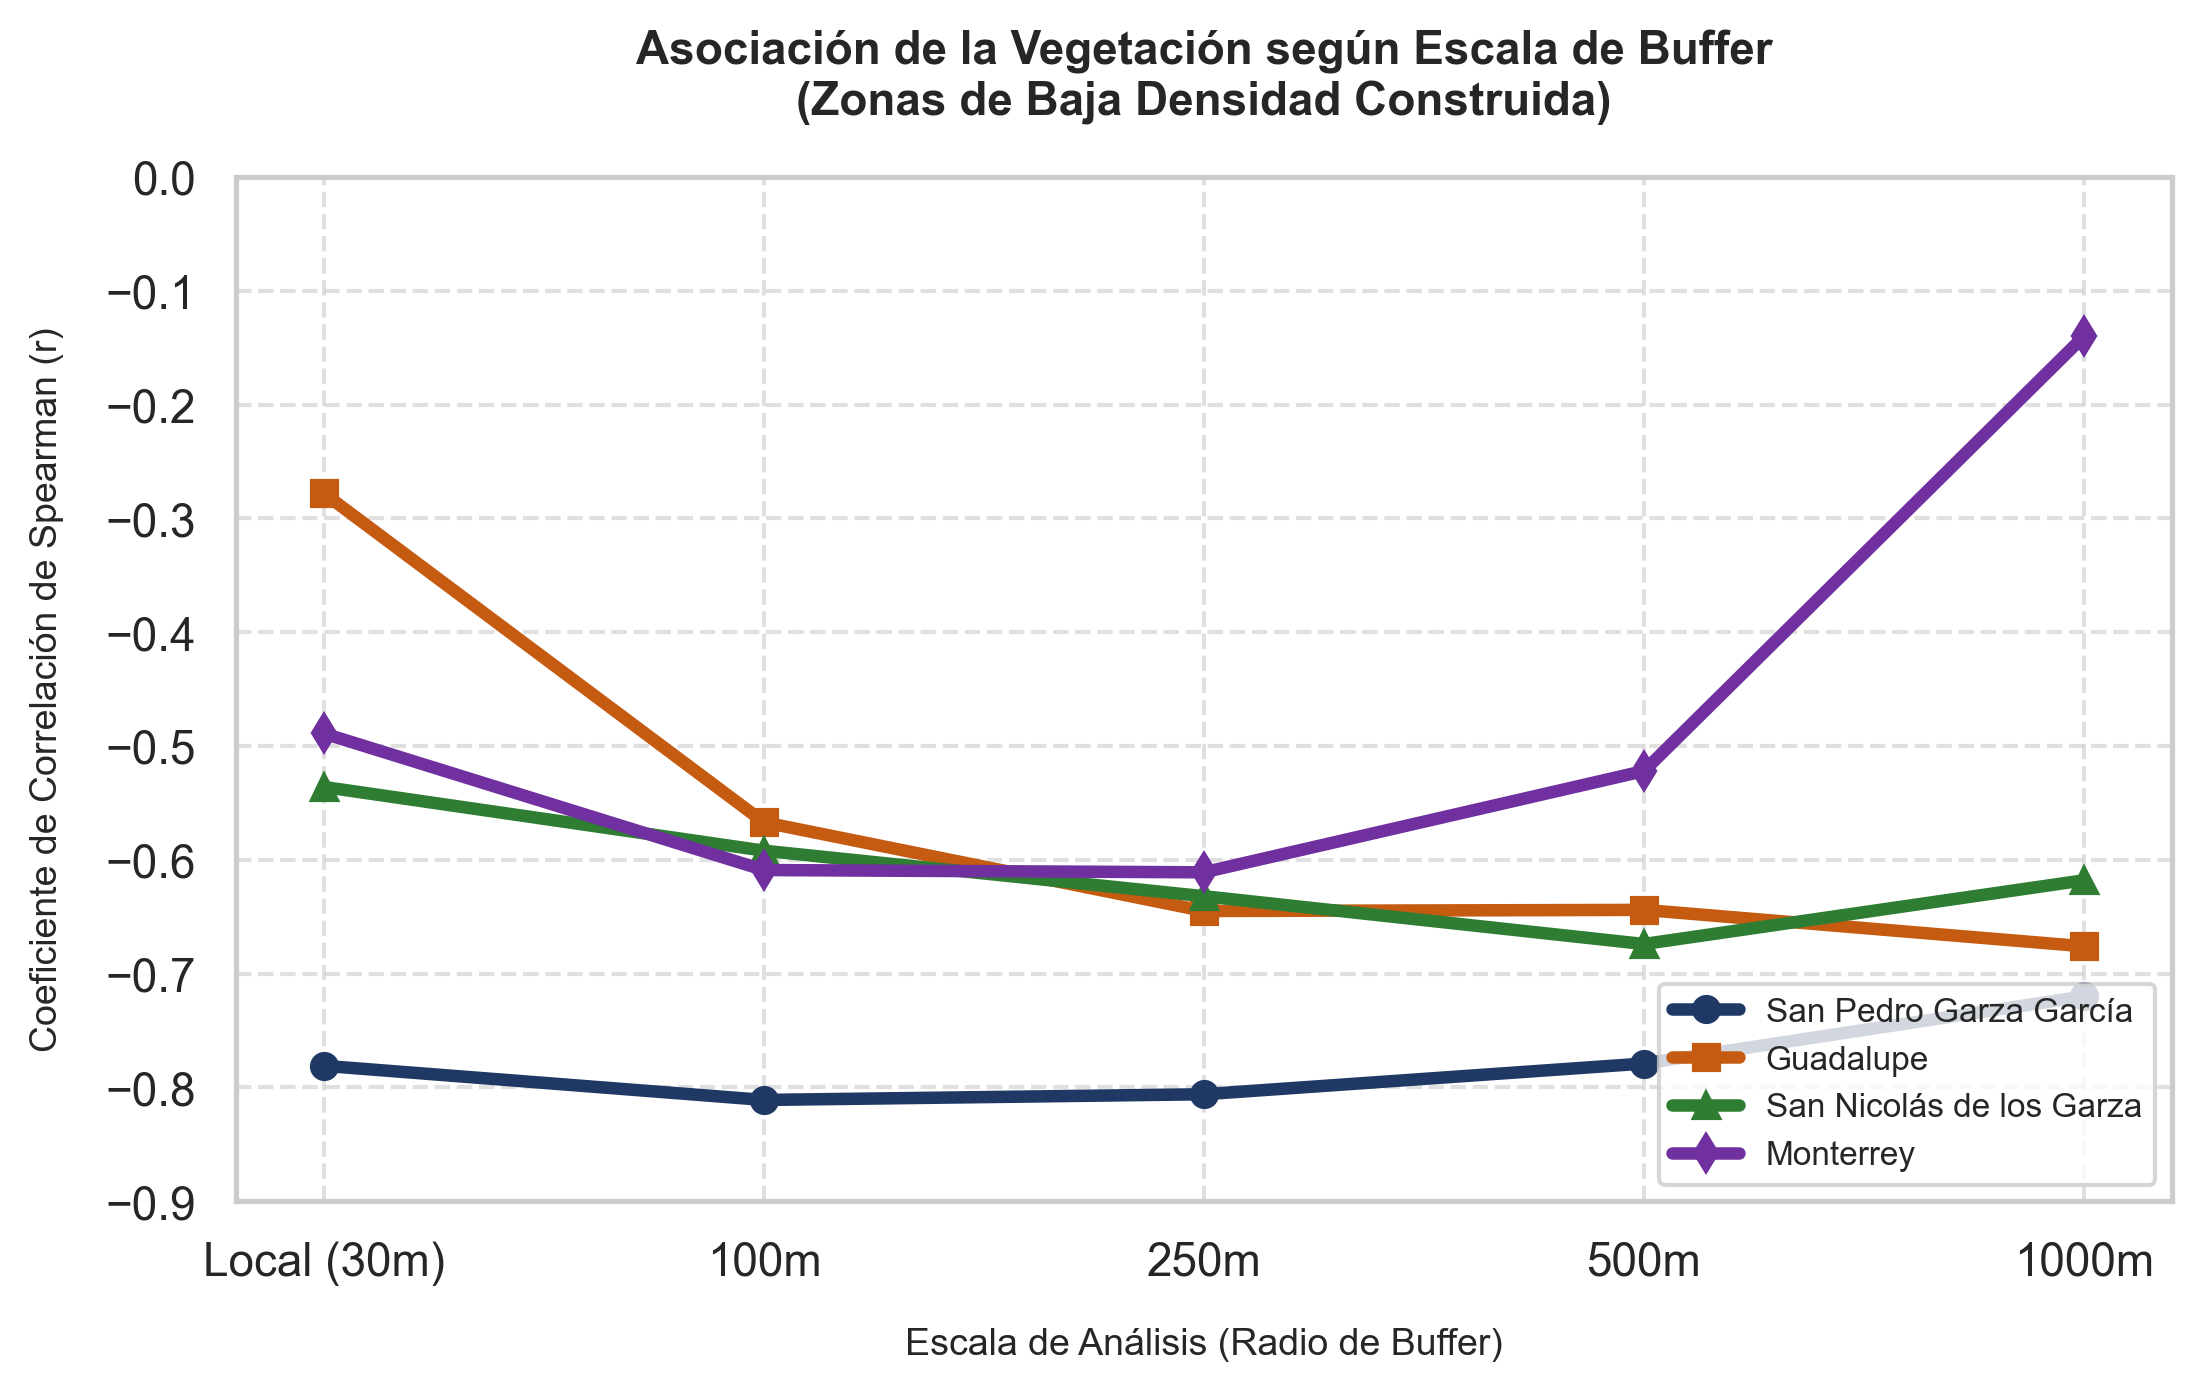
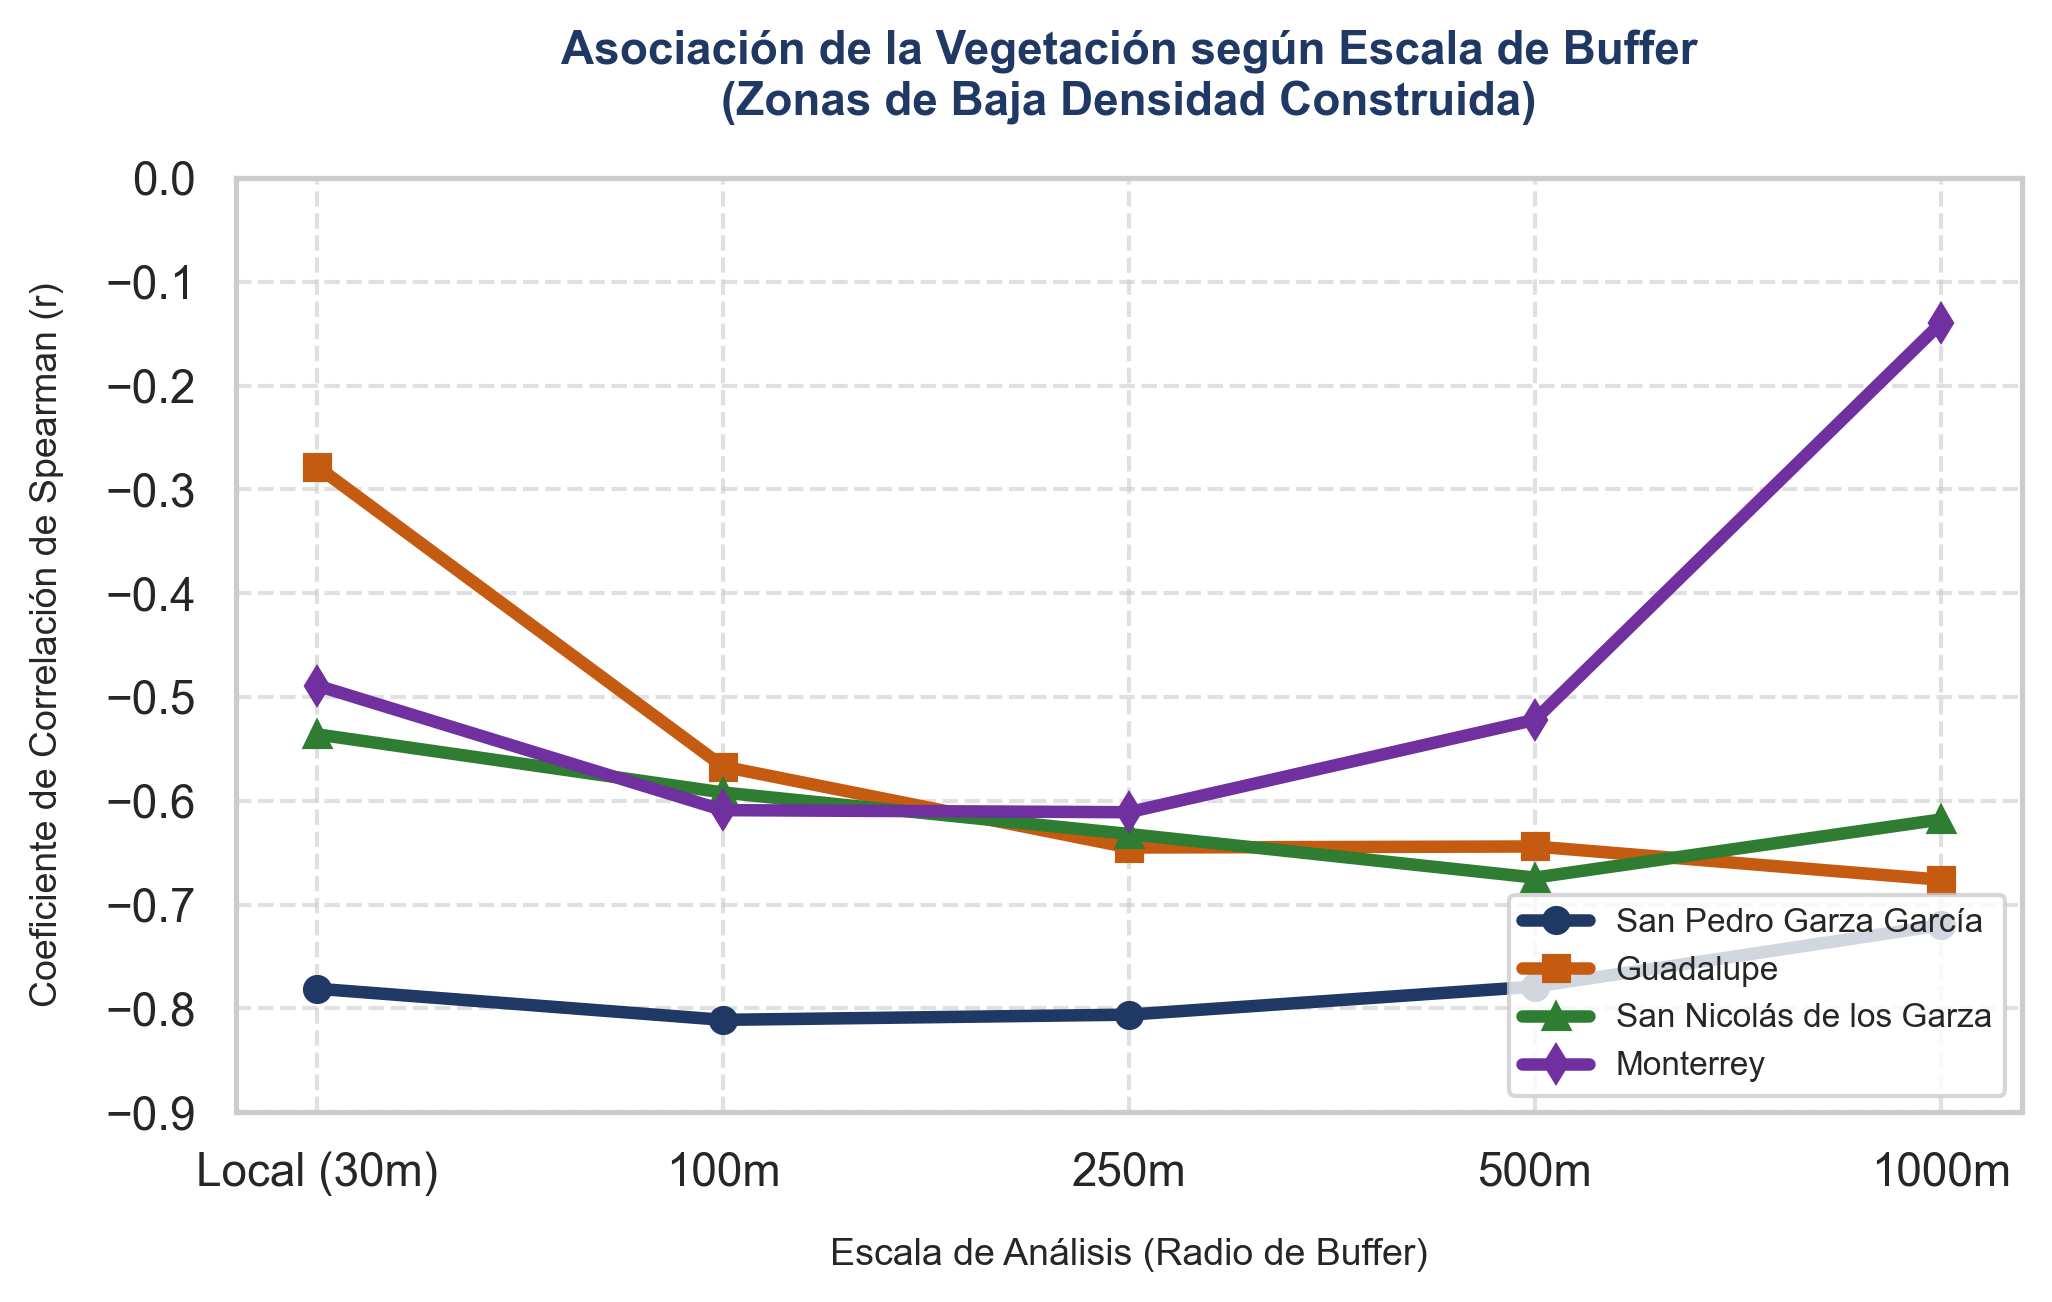
docs: generate visual bottom-up correlation presentation pptx v5 with maps, heatmaps, charts and reusable script

diff --git a/src/visualization/generate_correlation_ppt_figures.py b/src/visualization/generate_correlation_ppt_figures.py
@@ -1,0 +1,195 @@
+import os
+import shutil
+import numpy as np
+import matplotlib.pyplot as plt
+import seaborn as sns
+
+def generate_vegetacion_line_chart(output_path):
+    sns.set_theme(style="whitegrid")
+    scales = ['Local (30m)', '100m', '250m', '500m', '1000m']
+    san_pedro = [-0.781, -0.811, -0.806, -0.779, -0.720]
+    guadalupe = [-0.278, -0.567, -0.645, -0.644, -0.676]
+    san_nicolas = [-0.536, -0.592, -0.632, -0.674, -0.618]
+    monterrey = [-0.489, -0.609, -0.611, -0.522, -0.140]
+    
+    fig, ax = plt.subplots(figsize=(7, 4.5), dpi=300)
+    ax.plot(scales, san_pedro, marker='o', linewidth=3, label='San Pedro Garza García', color='#1f3864')
+    ax.plot(scales, guadalupe, marker='s', linewidth=3, label='Guadalupe', color='#c55a11')
+    ax.plot(scales, san_nicolas, marker='^', linewidth=3, label='San Nicolás de los Garza', color='#2e7d32')
+    ax.plot(scales, monterrey, marker='d', linewidth=3, label='Monterrey', color='#7030a0')
+    
+    ax.set_title('Asociación de la Vegetación según Escala de Buffer\n(Zonas de Baja Densidad Construida)', fontsize=11, fontweight='bold', pad=15, color='#1f3864')
+    ax.set_xlabel('Escala de Análisis (Radio de Buffer)', fontsize=9, labelpad=10)
+    ax.set_ylabel('Coeficiente de Correlación de Spearman (r)', fontsize=9, labelpad=10)
+    ax.set_ylim(-0.9, 0.0)
+    ax.grid(True, linestyle='--', alpha=0.6)
+    ax.legend(frameon=True, fontsize=8, loc='lower right')
+    
+    plt.tight_layout()
+    plt.savefig(output_path, dpi=300, bbox_inches='tight')
+    plt.close()
+    print(f"[FIGS] Figure 1 (Vegetacion) generated at: {output_path}")
+
+def generate_industria_line_chart(output_path):
+    sns.set_theme(style="whitegrid")
+    scales = ['Local (30m)', '100m', '250m', '500m', '1000m']
+    san_nicolas_baja = [0.573, 0.595, 0.624, 0.630, 0.643]
+    san_nicolas_alta = [0.411, 0.473, 0.500, 0.505, 0.469]
+    monterrey_baja = [-0.009, 0.104, 0.379, 0.540, 0.596]
+    monterrey_media = [0.253, 0.316, 0.361, 0.374, 0.304]
+    san_pedro_baja = [0.0, 0.0, 0.079, 0.260, 0.579] # N/D treated as 0 or handled gracefully
+    
+    fig, ax = plt.subplots(figsize=(7, 4.5), dpi=300)
+    ax.plot(scales, san_nicolas_baja, marker='o', linewidth=2.5, linestyle='-', label='San Nicolás (Baja)', color='#1f3864')
+    ax.plot(scales, san_nicolas_alta, marker='o', linewidth=2.5, linestyle='--', label='San Nicolás (Alta)', color='#2f5597')
+    ax.plot(scales, monterrey_baja, marker='s', linewidth=2.5, linestyle='-', label='Monterrey (Baja)', color='#c55a11')
+    ax.plot(scales, monterrey_media, marker='s', linewidth=2.5, linestyle='--', label='Monterrey (Media)', color='#f4b183')
+    ax.plot(scales, san_pedro_baja, marker='^', linewidth=2.5, linestyle=':', label='San Pedro (Baja, Spillover)', color='#7030a0')
+    
+    ax.set_title('Asociación de la Industria según Escala de Buffer\n(Casos Seleccionados)', fontsize=11, fontweight='bold', pad=15, color='#1f3864')
+    ax.set_xlabel('Escala de Análisis (Radio de Buffer)', fontsize=9, labelpad=10)
+    ax.set_ylabel('Coeficiente de Correlación de Spearman (r)', fontsize=9, labelpad=10)
+    ax.set_ylim(-0.1, 0.7)
+    ax.grid(True, linestyle='--', alpha=0.6)
+    ax.legend(frameon=True, fontsize=8, loc='upper left')
+    
+    plt.tight_layout()
+    plt.savefig(output_path, dpi=300, bbox_inches='tight')
+    plt.close()
+    print(f"[FIGS] Figure 2 (Industria) generated at: {output_path}")
+
+def generate_density_bar_chart(output_path):
+    sns.set_theme(style="whitegrid")
+    municipios = ['San Pedro', 'Guadalupe', 'San Nicolás', 'Monterrey']
+    baja_densidad = [-0.781, -0.278, -0.536, -0.489]
+    alta_densidad = [-0.116, -0.042, -0.083, -0.026]
+    
+    x = np.arange(len(municipios))
+    width = 0.35
+    
+    fig, ax = plt.subplots(figsize=(7, 4.5), dpi=300)
+    rects1 = ax.bar(x - width/2, baja_densidad, width, label='Baja Densidad (<20%)', color='#70ad47')
+    rects2 = ax.bar(x + width/2, alta_densidad, width, label='Alta Densidad (>=60%)', color='#c00000')
+    
+    ax.set_title('Vegetación Local (30m): Baja vs Alta Densidad Construida', fontsize=11, fontweight='bold', pad=15, color='#1f3864')
+    ax.set_ylabel('Coeficiente de Spearman (r)', fontsize=9, labelpad=10)
+    ax.set_xticks(x)
+    ax.set_xticklabels(municipios, fontsize=9)
+    ax.set_ylim(-0.9, 0.1)
+    ax.grid(True, linestyle='--', alpha=0.6)
+    ax.legend(frameon=True, fontsize=9, loc='lower right')
+    
+    # Add values on top of bars
+    def autolabel(rects):
+        for rect in rects:
+            height = rect.get_height()
+            ax.annotate(f'{height:+.3f}',
+                        xy=(rect.get_x() + rect.get_width() / 2, height),
+                        xytext=(0, 3 if height >= 0 else -12),
+                        textcoords="offset points",
+                        ha='center', va='bottom', fontsize=8, fontweight='bold')
+                        
+    autolabel(rects1)
+    autolabel(rects2)
+    
+    plt.tight_layout()
+    plt.savefig(output_path, dpi=300, bbox_inches='tight')
+    plt.close()
+    print(f"[FIGS] Figure 3 (Bar Chart) generated at: {output_path}")
+
+def generate_heatmap(output_path):
+    sns.set_theme(style="white")
+    municipios = ['San Pedro', 'Guadalupe', 'San Nicolás', 'Monterrey']
+    buffers = ['Local (30m)', '100m', '250m', '500m', '1000m']
+    
+    matrix = np.array([
+        [-0.781, -0.811, -0.806, -0.779, -0.720],
+        [-0.278, -0.567, -0.645, -0.644, -0.676],
+        [-0.536, -0.592, -0.632, -0.674, -0.618],
+        [-0.489, -0.609, -0.611, -0.522, -0.140]
+    ])
+    
+    fig, ax = plt.subplots(figsize=(7.5, 4.5), dpi=300)
+    sns.heatmap(matrix, annot=True, fmt="+.3f", cmap="YlGn_r", xticklabels=buffers, yticklabels=municipios, 
+                cbar_kws={'label': 'Coeficiente de Spearman (r)'}, ax=ax, annot_kws={"size": 10, "weight": "bold"})
+    
+    ax.set_title('Matriz de Asociación de Enfriamiento (Vegetación Baja Densidad)', fontsize=11, fontweight='bold', pad=15, color='#1f3864')
+    plt.xticks(rotation=15)
+    plt.tight_layout()
+    plt.savefig(output_path, dpi=300, bbox_inches='tight')
+    plt.close()
+    print(f"[FIGS] Figure 4 (Heatmap) generated at: {output_path}")
+
+def draw_flowchart(output_path):
+    fig, ax = plt.subplots(figsize=(7, 6.5), dpi=300)
+    
+    steps = [
+        "1. Discretización Territorial\nMalla regular de celdas de 30 metros",
+        "2. Asignación Temática\nMunicipio, AGEB y Densidad por celda (Spatial Join)",
+        "3. Cálculo Multiescala\nCoberturas en celda local y buffers circulares\n(100m, 250m, 500m y 1000m)",
+        "4. Modelo Bivariado\nCoeficientes de correlación de Spearman (r)",
+        "5. Segmentación territorial\nComparación por Municipio y Zona de Densidad",
+        "6. Resultados y Síntesis\nTablas nativas, mapas y recomendaciones"
+    ]
+    
+    box_style = dict(boxstyle="round,pad=0.5", fc="#1f3864", ec="none", alpha=0.9)
+    
+    for i, step in enumerate(steps):
+        y = 5 - i
+        # Draw Box
+        ax.text(0.5, y, step, ha="center", va="center", color="white",
+                weight="bold", fontsize=9, bbox=box_style)
+        
+        # Draw Arrow
+        if i < 5:
+            ax.annotate("", xy=(0.5, y - 0.72), xytext=(0.5, y - 0.28),
+                        arrowprops=dict(arrowstyle="->", color="#c55a11", lw=2.5))
+            
+    ax.set_xlim(0, 1)
+    ax.set_ylim(-0.5, 5.5)
+    ax.axis('off')
+    
+    plt.tight_layout()
+    os.makedirs(os.path.dirname(output_path), exist_ok=True)
+    plt.savefig(output_path, dpi=300, bbox_inches='tight')
+    plt.close()
+    print(f"[FIGS] Figure 5 (Flowchart) generated at: {output_path}")
+
+def main():
+    figures_dir = r"reports/correlation_presentation_md/figures"
+    os.makedirs(figures_dir, exist_ok=True)
+    
+    # 1. Generate new figures
+    generate_vegetacion_line_chart(os.path.join(figures_dir, "vegetacion_baja_densidad_buffers.png"))
+    generate_industria_line_chart(os.path.join(figures_dir, "industria_buffers.png"))
+    generate_density_bar_chart(os.path.join(figures_dir, "comparacion_baja_alta_densidad.png"))
+    generate_heatmap(os.path.join(figures_dir, "heatmap_resumen_coeficientes.png"))
+    draw_flowchart(os.path.join(figures_dir, "diagrama_metodologico.png"))
+    
+    # 2. Reuse and copy existing maps
+    src_density_map = r"outputs/figures/06_mapa_densidades_dw.png"
+    dst_density_map = os.path.join(figures_dir, "mapa_zonas_densidad.png")
+    if os.path.exists(src_density_map):
+        shutil.copy(src_density_map, dst_density_map)
+        print(f"[REUSE] Copied density map from {src_density_map} to {dst_density_map}")
+    else:
+        print(f"[WARN] Source density map not found: {src_density_map}")
+        
+    src_hotspots_map = r"outputs/05/hotspots_top3_overview_map.png"
+    dst_hotspots_map = os.path.join(figures_dir, "hotspots_overview.png")
+    if os.path.exists(src_hotspots_map):
+        shutil.copy(src_hotspots_map, dst_hotspots_map)
+        print(f"[REUSE] Copied hotspots map from {src_hotspots_map} to {dst_hotspots_map}")
+    else:
+        print(f"[WARN] Source hotspots map not found: {src_hotspots_map}")
+        
+    src_zoom_map = r"outputs/05/hotspot_ternium_zoom_map.png"
+    dst_zoom_map = os.path.join(figures_dir, "hotspot_ternium_zoom.png")
+    if os.path.exists(src_zoom_map):
+        shutil.copy(src_zoom_map, dst_zoom_map)
+        print(f"[REUSE] Copied hotspot zoom map from {src_zoom_map} to {dst_zoom_map}")
+    else:
+        print(f"[WARN] Source hotspot zoom map not found: {src_zoom_map}")
+
+if __name__ == "__main__":
+    main()